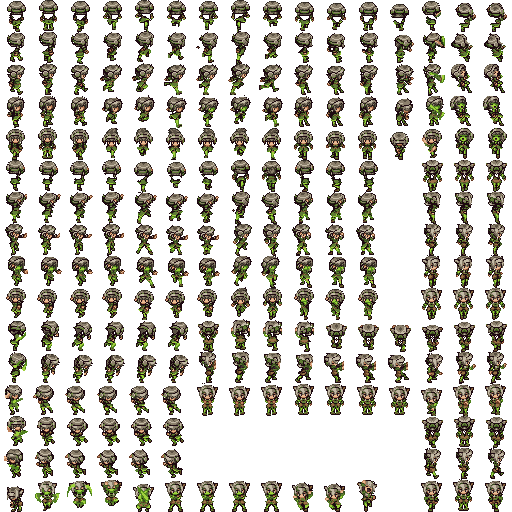
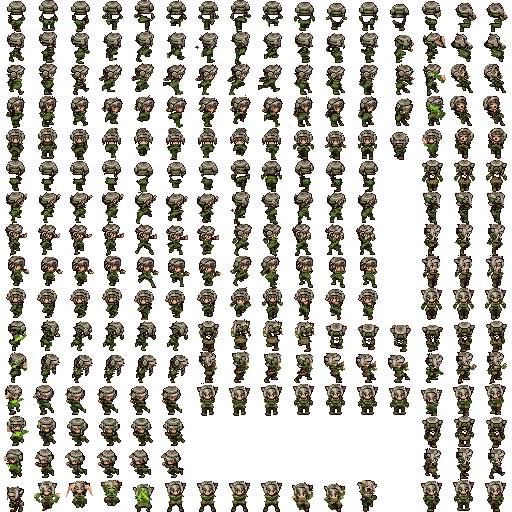
Class skins in trousers on a broader build, not a skirt over stockings
Below the waist the original's red stripes, skirt hem and bare thigh become plain trousers in the class's cloth colours, and from the neck down every row gains two columns down the middle, so the shoulders, chest and stance are broader while the head keeps its size. The slash-streak test now also needs a patch at least ten pixels wide, so a running face is never taken for it. Audit scores 82-90, every sheet within the size and pixel-scale gates.

diff --git a/misc/hero_skins/make_skins.py b/misc/hero_skins/make_skins.py
@@ -126,6 +126,7 @@ WHITE = (255, 255, 255)
 # NOTE: a patch of skin colour bigger than this is the sword's slash
 # streak, not a hand or a face
 SLASH_PIXELS = 20
+SLASH_WIDTH = 10
 
 
 def components(mask):
@@ -149,8 +150,41 @@ def components(mask):
     return out
 
 
+# NOTE: rows from the head's centre down to where the legs start, and how
+# many columns the body gains down its middle from the neck on
+WAIST_BELOW_HEAD = 8.5
+NECK_BELOW_HEAD = 6.5
+WIDEN = 2
+
+
+def widen(cell):
+    """a broader man: from the neck down, every row is split at the head's
+    centre and each half pushed out a pixel, the middle columns repeated,
+    so the shoulders, chest and stance widen while the head keeps its size"""
+    h = head_of(cell)
+    if h is None:
+        return cell
+    cx, cy = h
+    c = int(round(cx))
+    out = cell.copy()
+    half = WIDEN // 2
+    for y in range(int(cy + NECK_BELOW_HEAD), 32):
+        row = cell[y]
+        new = row.copy()
+        for x in range(32):
+            if x < c - half:
+                src = x + half
+            elif x >= c + half:
+                src = x - half
+            else:
+                src = c - half if x < c else c
+            new[x] = row[min(31, max(0, src))]
+        out[y] = new
+    return out
+
+
 def class_cell(cell, pal):
-    cell = haircut(cell)
+    cell = widen(haircut(cell))
     h = head_of(cell)
     out = cell.copy()
     yy, xx = np.mgrid[0:32, 0:32]
@@ -188,7 +222,10 @@ def class_cell(cell, pal):
     skin = is_col(cell, SKIN)
     slash = np.zeros((32, 32), bool)
     for patch in components(skin):
-        if len(patch) > SLASH_PIXELS:
+        # NOTE: a face with its neck can be as big, but it is narrow; the
+        # streak is wide
+        xs = [x for y, x in patch]
+        if len(patch) > SLASH_PIXELS and max(xs) - min(xs) + 1 >= SLASH_WIDTH:
             for y, x in patch:
                 slash[y, x] = True
     for s, d in zip(SKIN, MALE_SKIN):
@@ -196,6 +233,15 @@ def class_cell(cell, pal):
     put(SKIN[0], pal['accent'][0], slash)
     put(SKIN[1], pal['accent'][0], slash)
     put(SKIN[2], pal['accent'][1], slash)
+    # NOTE: trousers, not a skirt over red stockings: below the waist the
+    # red stripes, the hem and the bare thigh all become plain trousers
+    if h:
+        legs = (yy + 0.5 >= cy + WAIST_BELOW_HEAD) & ~slash
+        pants = pal.get('pants', [pal['cloth'][0], pal['cloth'][1]])
+        put(ACCENT[0], pants[0], legs)
+        put(ACCENT[1], pants[1], legs)
+        for s in SKIN:
+            put(s, pants[1], legs)
     return out
 
 
